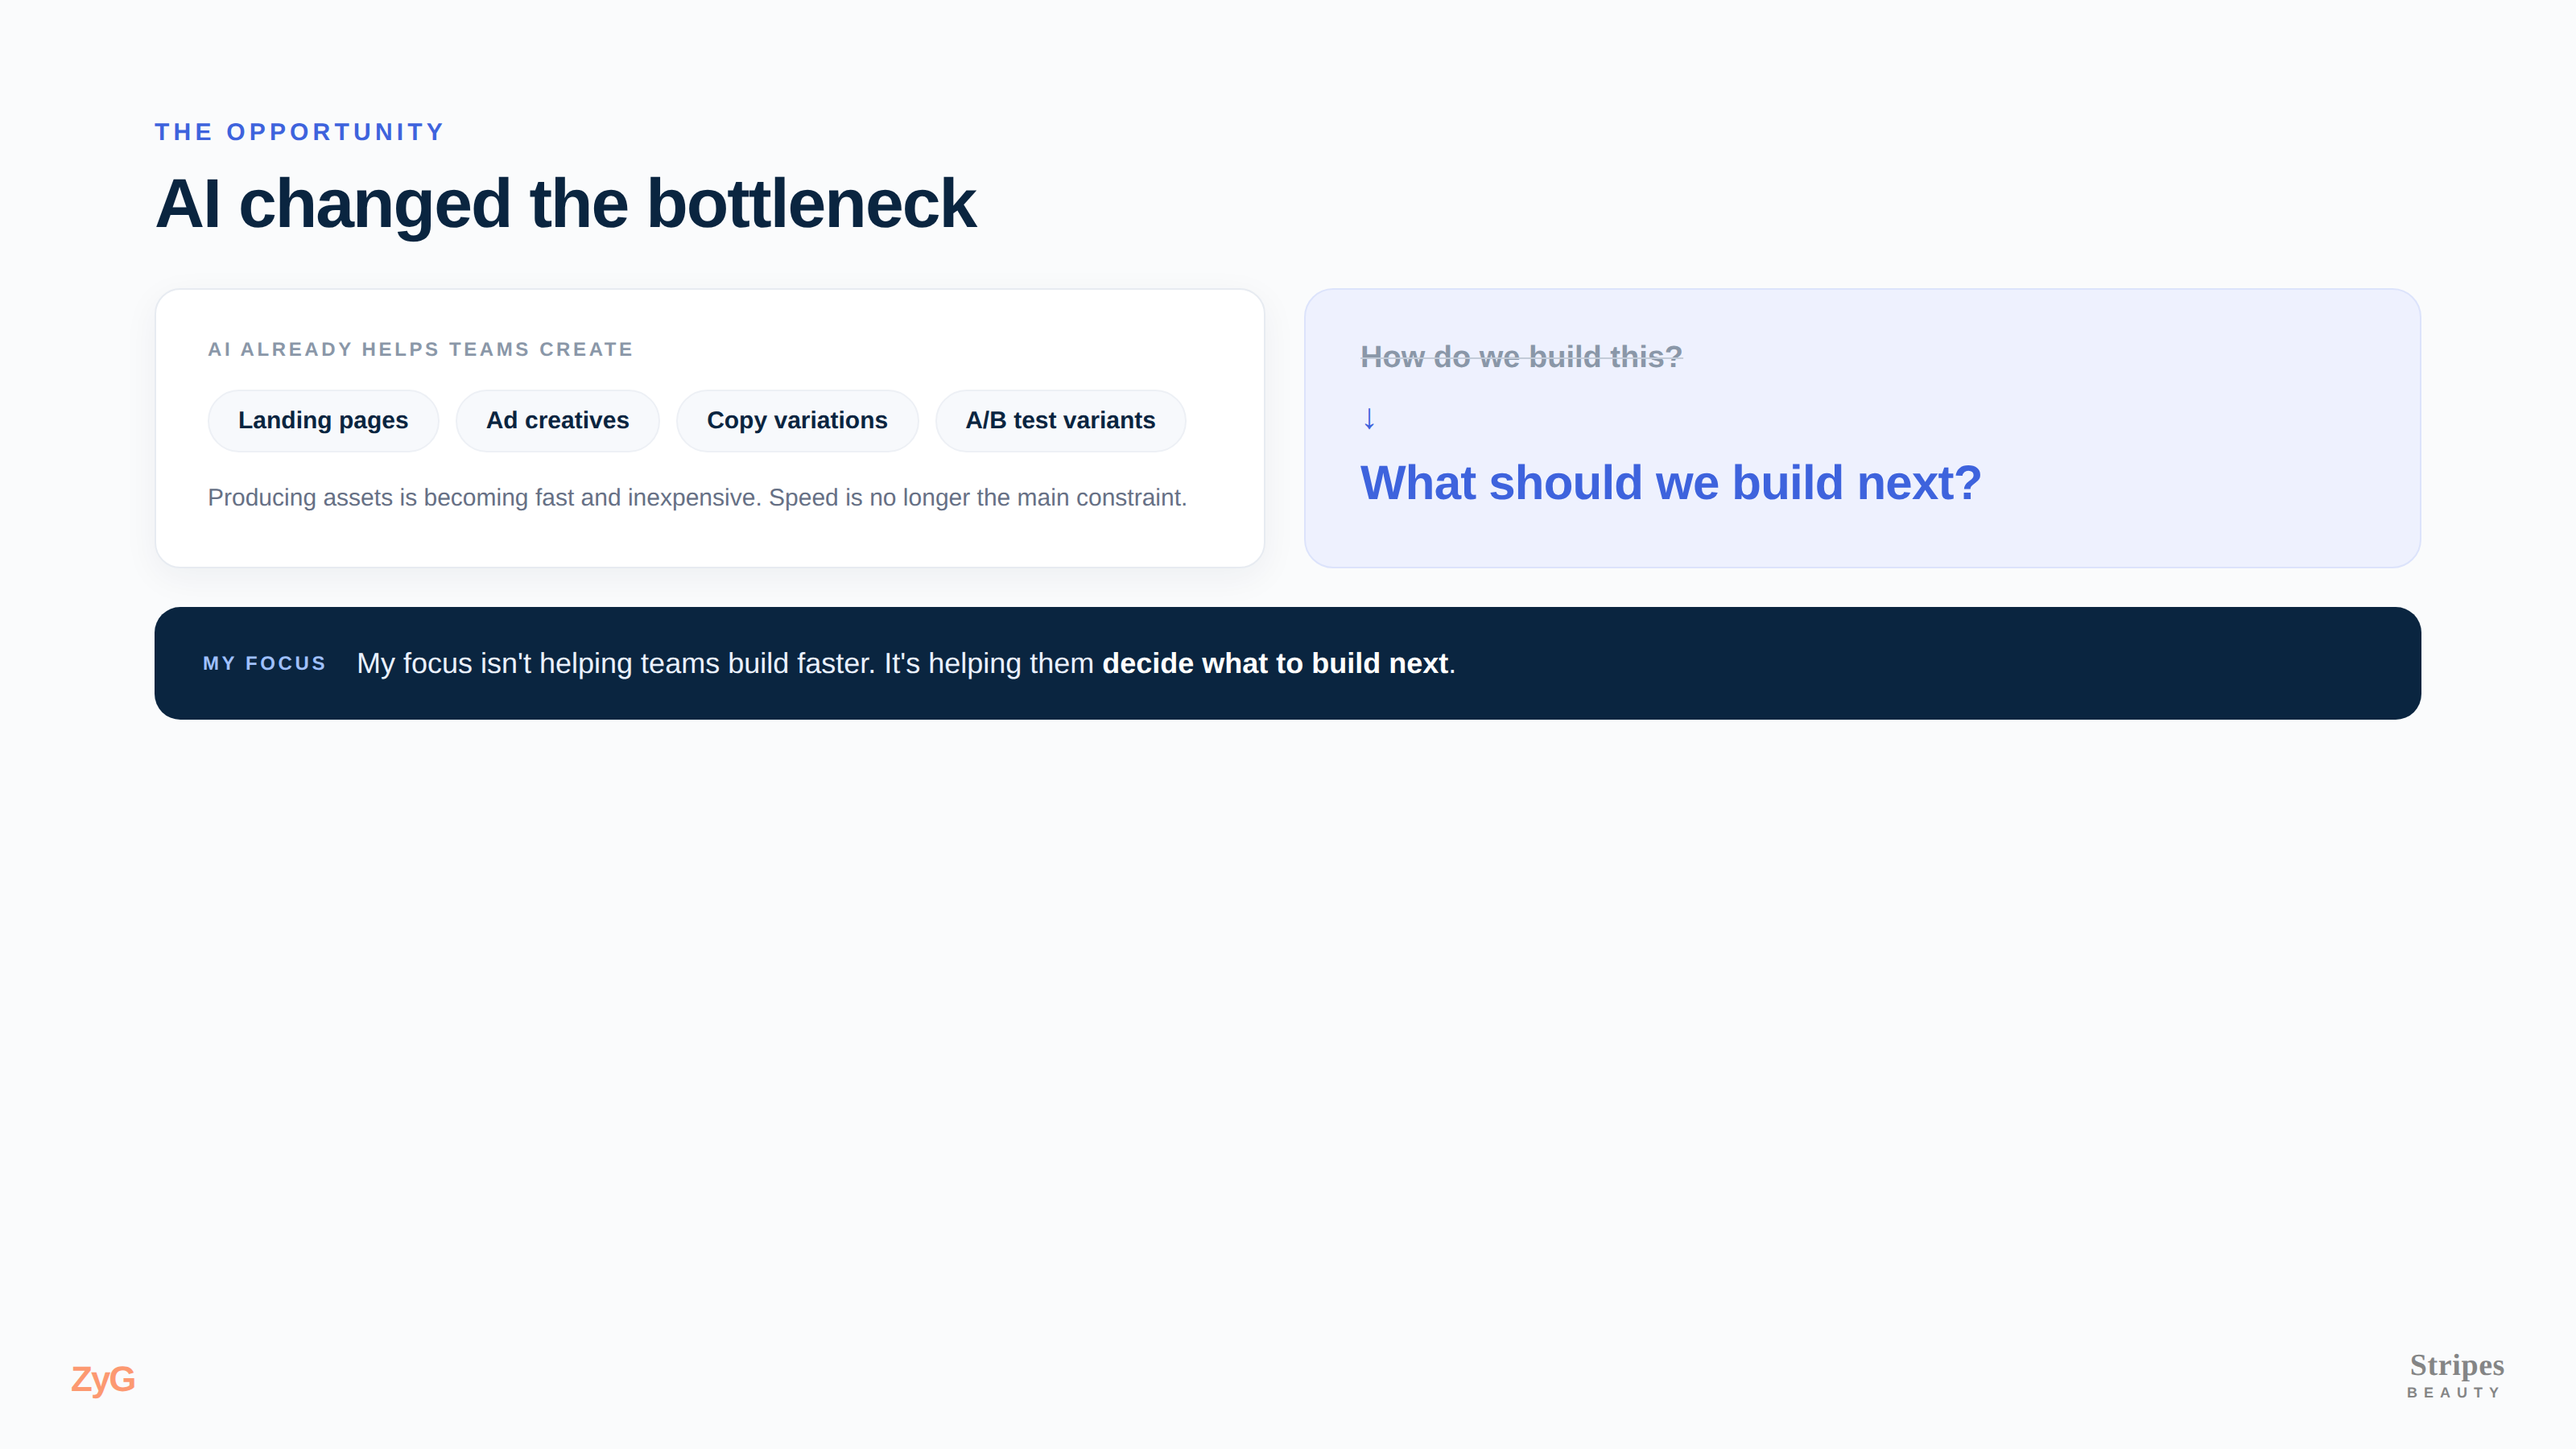
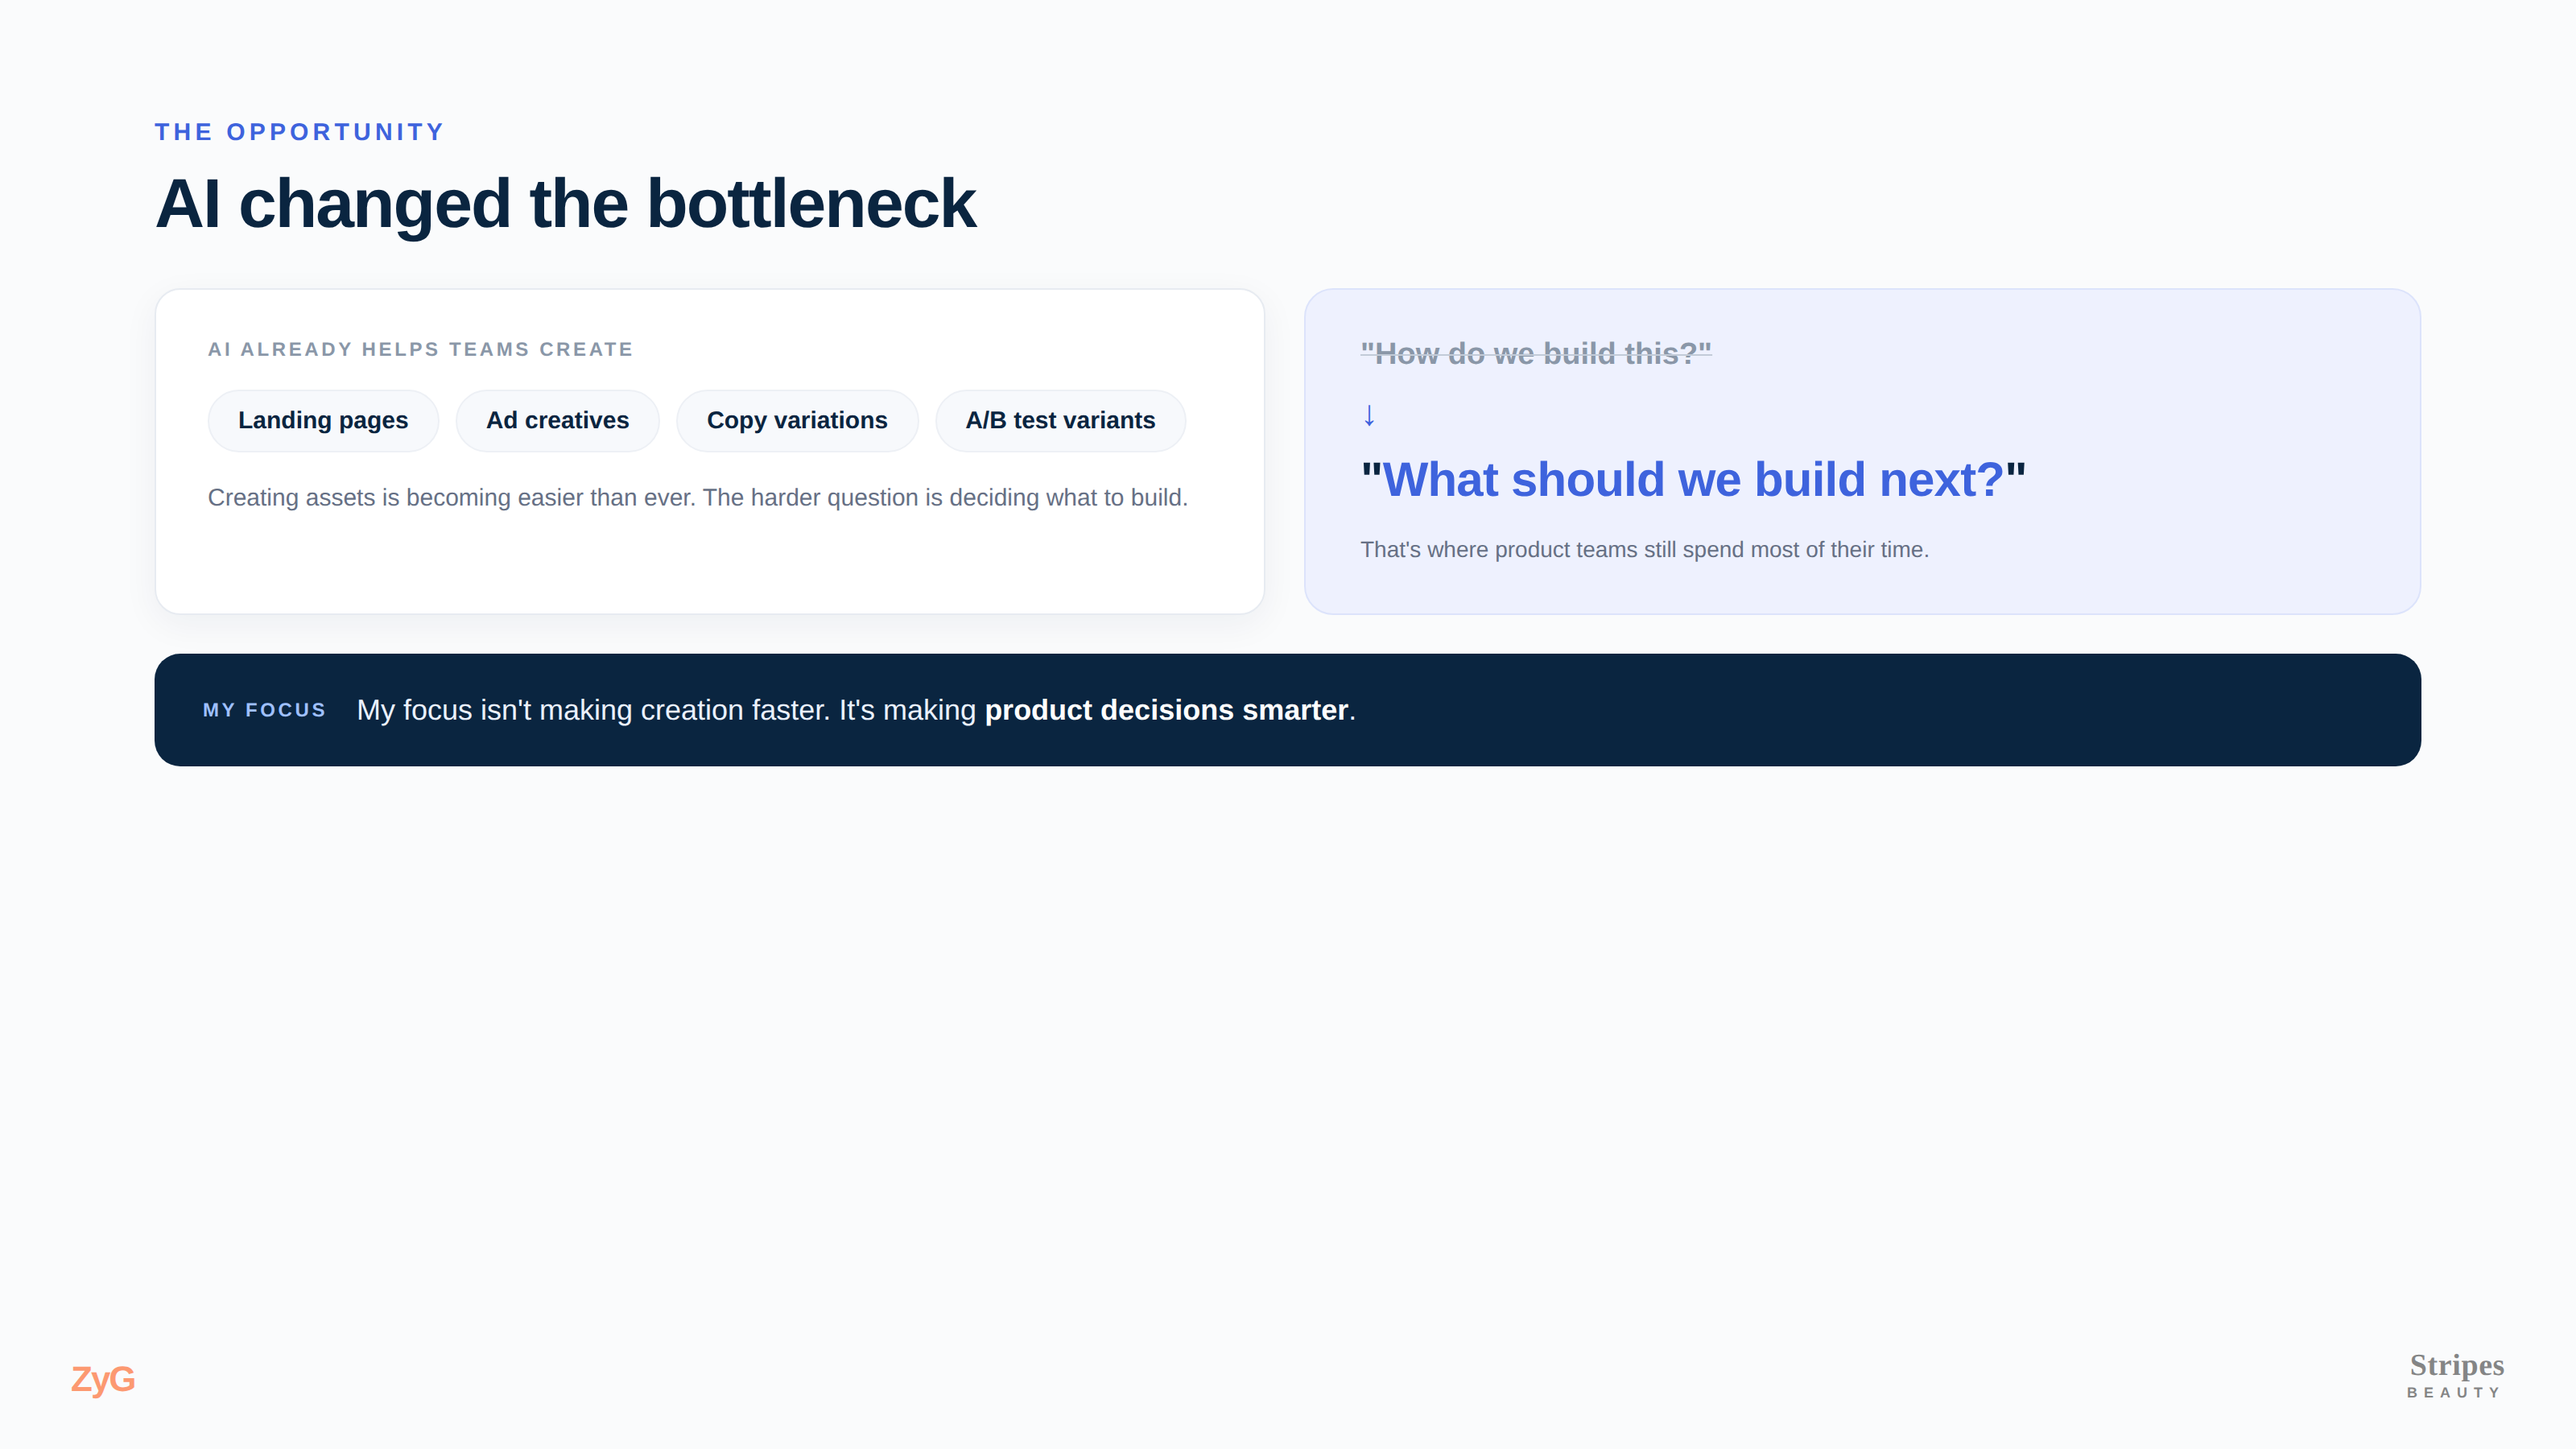
Part 4 exact-copy pass 2
Slide 2 body + question quotes + supporting line + banner wording; slide 3 step
titles/bodies, Emerging patterns bullet, Insight label, symptom discovery test,
'prepares' footer; slide 4 title 'Keep humans in the decision loop'.

Claude-Session: https://claude.ai/code/session_01GoAG3ySswQXo2H1hh5EwTk

diff --git a/diagrams/slides/p4-03-build.html b/diagrams/slides/p4-03-build.html
@@ -33,7 +33,7 @@
 <div class="slide">
   <div class="kicker">What I'd Build</div>
   <div class="h1">A Growth Intelligence Agent</div>
-  <div class="lead" style="font-size:17.5px;">Instead of helping the team create assets faster, it helps them discover the next experiment worth running.</div>
+  <div class="lead" style="font-size:17.5px;">Instead of helping teams create assets faster, it helps them identify the next high-impact experiment.</div>
 
   <div class="stage">
     <div class="left">
@@ -41,28 +41,28 @@
         <div class="step">
           <div class="rail"><span class="n">1</span><span class="ln"></span></div>
           <div class="body">
-            <h3>It watches the market</h3>
-            <p>Competitor websites, landing pages, Meta Ads Library, pricing, promotions, messaging and new funnels - <b>continuously</b>.</p>
+            <h3>It continuously monitors competitors</h3>
+            <p>Competitor websites, landing pages, Meta Ads Library, pricing, promotions, messaging and acquisition flows.</p>
           </div>
         </div>
         <div class="step">
           <div class="rail"><span class="n">2</span><span class="ln"></span></div>
           <div class="body">
-            <h3>It spots meaningful changes</h3>
-            <p>Most market changes don't matter. The agent highlights the few that actually do:</p>
+            <h3>It filters the noise</h3>
+            <p>Most market updates aren't actionable. The agent surfaces only the ones worth investigating.</p>
             <div class="mini">
               <div class="m"><span class="d"></span>New offers</div>
               <div class="m"><span class="d"></span>New messaging</div>
               <div class="m"><span class="d"></span>New acquisition flows</div>
-              <div class="m"><span class="d"></span>Patterns across competitors</div>
+              <div class="m"><span class="d"></span>Emerging patterns across competitors</div>
             </div>
           </div>
         </div>
         <div class="step">
           <div class="rail"><span class="n">3</span></div>
           <div class="body">
-            <h3>It turns insights into experiment briefs</h3>
-            <p>Every relevant market change becomes a <b>ready-to-review experiment brief</b> instead of another Slack message.</p>
+            <h3>It generates ready-to-review experiment briefs</h3>
+            <p>Every relevant market signal becomes a <b>structured experiment brief</b> instead of another Slack message.</p>
           </div>
         </div>
       </div>
@@ -76,13 +76,13 @@
         </div>
         <div class="title">Competitors are moving to symptom-first entry flows</div>
         <div class="rows">
-          <div class="br"><span class="bl">What changed</span><span class="bv">3 competitors introduced quiz-first acquisition flows.</span></div>
+          <div class="br"><span class="bl">Insight</span><span class="bv">Three competitors introduced quiz-first acquisition flows.</span></div>
           <div class="br"><span class="bl">Hypothesis</span><span class="bv">A symptom-first homepage could increase PDP View Rate.</span></div>
-          <div class="br"><span class="bl">Recommended test</span><span class="bv">Homepage discovery flow vs. current homepage.</span></div>
+          <div class="br"><span class="bl">Recommended test</span><span class="bv">Homepage symptom discovery flow vs. current homepage.</span></div>
           <div class="br"><span class="bl">Primary KPI</span><span class="bv"><b>PDP View Rate</b></span></div>
         </div>
       </div>
-      <div class="caption">The agent drafts the brief. The PM decides whether to run it.</div>
+      <div class="caption">The agent prepares the brief. The PM decides whether to run it.</div>
     </div>
   </div>
 

diff --git a/diagrams/slides/p4-02-impact.html b/diagrams/slides/p4-02-impact.html
@@ -14,6 +14,7 @@
   .shift .qarrow{color:var(--blue);font-size:22px;font-weight:700;margin:12px 0 10px;}
   .shift .q2{font-size:30px;font-weight:700;color:var(--navy);line-height:1.25;letter-spacing:-.4px;}
   .shift .q2 b{color:var(--blue);}
+  .shift .qsup{font-size:14px;color:var(--muted);margin-top:14px;line-height:1.4;}
 
   .pick{margin-top:24px;background:var(--navy);border-radius:16px;padding:22px 30px;display:flex;align-items:center;gap:18px;}
   .pick .lbl{font-size:12px;font-weight:700;letter-spacing:1.8px;text-transform:uppercase;color:#9FC0FF;flex-shrink:0;}
@@ -33,19 +34,20 @@
         <span class="it">Copy variations</span>
         <span class="it">A/B test variants</span>
       </div>
-      <p>Producing assets is becoming fast and inexpensive. Speed is no longer the main constraint.</p>
+      <p>Creating assets is becoming easier than ever. The harder question is deciding what to build.</p>
     </div>
 
     <div class="shift">
-      <div class="q1">How do we build this?</div>
+      <div class="q1">"How do we build this?"</div>
       <div class="qarrow">&darr;</div>
-      <div class="q2"><b>What should we build next?</b></div>
+      <div class="q2">"<b>What should we build next?</b>"</div>
+      <div class="qsup">That's where product teams still spend most of their time.</div>
     </div>
   </div>
 
   <div class="pick">
     <span class="lbl">My focus</span>
-    <div class="t">My focus isn't helping teams build faster. It's helping them <b>decide what to build next</b>.</div>
+    <div class="t">My focus isn't making creation faster. It's making <b>product decisions smarter</b>.</div>
   </div>
 
   <div class="foot"><div class="zyg">ZyG</div><div class="stripes"><div class="word">Stripes</div><div class="beauty">BEAUTY</div></div></div>

diff --git a/diagrams/slides/p4-04-human.html b/diagrams/slides/p4-04-human.html
@@ -16,7 +16,7 @@
 </style></head><body>
 <div class="slide">
   <div class="kicker">Human in the Loop</div>
-  <div class="h1">Why this shouldn't be fully automated</div>
+  <div class="h1">Keep humans in the decision loop</div>
 
   <div class="cols">
     <div class="col card">
